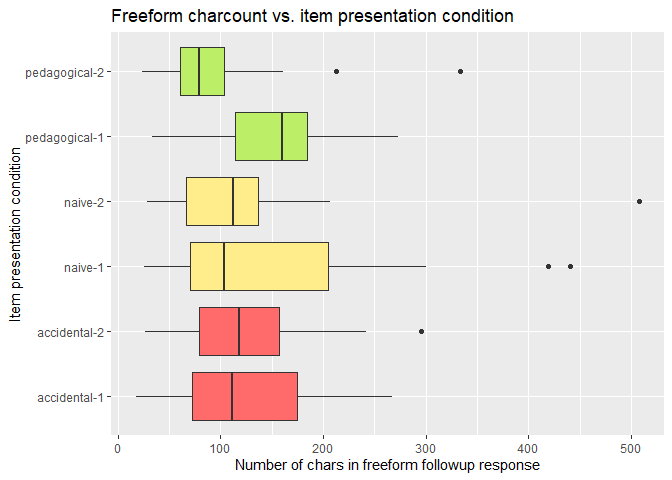
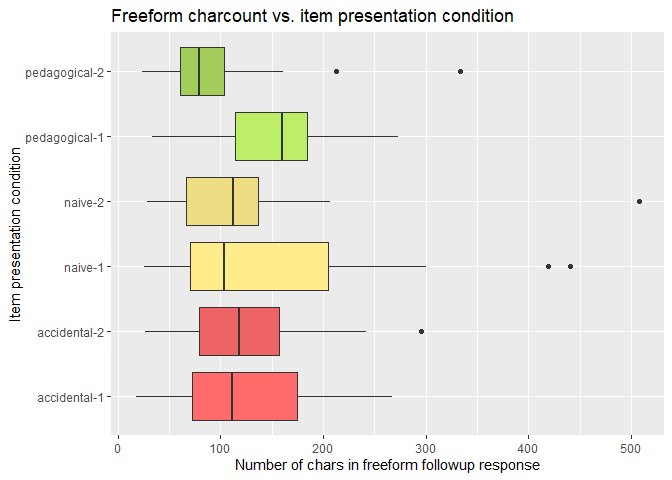
add word frequency plot

Changed region(s): [[0.25, 0.0938, 0.3438, 0.2188]]

diff --git a/analysis/proliferate/data_analysis.md b/analysis/proliferate/data_analysis.md
@@ -227,10 +227,6 @@ data data frame
 ``` r
 freeform_followup <- followup_data %>% filter(response_type == "freeform")
 
-# TODO
-# MH: Look into the tidytext package for text processing...
-# https://www.tidytextmining.com/tidytext.html
-
 freeform_followup <- freeform_followup %>%
   mutate(n_words = str_count(response, pattern=boundary(type="word"))) %>%
   mutate(n_chars = str_count(response, pattern=boundary(type="character")))
@@ -516,67 +512,6 @@ ggplot(
 
   - *Relationship appears linear, even with high outliers*
 
-Wordcount of freeform followup vs. item presentation condition
-
-``` r
-ggplot(
-  freeform_followup,
-  mapping = aes(
-    x = n_words,
-    y = proliferate.condition,
-    group = proliferate.condition,
-    fill = as.factor(proliferate.condition)
-  )
-) +
-geom_boxplot() +
-labs(
-  title = "Freeform wordcount vs. item presentation condition",
-  x = "Number of words in freeform followup response",
-  y = "Item presentation condition") +
-scale_fill_manual(
-  values = c("indianred1", "indianred1", "lightgoldenrod1", "lightgoldenrod1", "darkolivegreen2", "darkolivegreen2", "cornflowerblue", "cornflowerblue")
-) +
-theme(legend.position = "none")
-```
-
-    ## Warning: Removed 1 rows containing non-finite values (stat_boxplot).
-
-![](data_analysis_files/figure-gfm/Freeform%20followup%20wordcount%20vs.%20item%20presentation%20condition-1.png)<!-- -->
-
-*Observations*
-
-  - *1-example naive condition has largest IQR for number of words in
-    freeform followup*
-  - *2-example pedagogical has smallest IQR and smallest median for
-    number of words in freeform followup*
-
-Character count of freeform followup vs. item presentation condition
-
-``` r
-ggplot(
-  freeform_followup,
-  mapping = aes(
-    x = n_chars,
-    y = proliferate.condition,
-    group = proliferate.condition,
-    fill = as.factor(proliferate.condition)
-  )
-) +
-geom_boxplot() +
-labs(
-  title = "Freeform charcount vs. item presentation condition",
-  x = "Number of chars in freeform followup response",
-  y = "Item presentation condition") +
-scale_fill_manual(
-  values = c("indianred1", "indianred1", "lightgoldenrod1", "lightgoldenrod1", "darkolivegreen2", "darkolivegreen2", "cornflowerblue", "cornflowerblue")
-) +
-theme(legend.position = "none")
-```
-
-    ## Warning: Removed 1 rows containing non-finite values (stat_boxplot).
-
-![](data_analysis_files/figure-gfm/Freeform%20followup%20character%20count%20vs.%20item%20presentation%20condition-1.png)<!-- -->
-
 Scatter plot of trials slider response to followup slider response
 
 ``` r
@@ -662,4 +597,39 @@ ggplot(
 
     ## Warning: Removed 1 rows containing missing values (geom_point).
 
-![](data_analysis_files/figure-gfm/Followup%20wordcoutn%20vs.%20slider%20diff.-1.png)<!-- -->
+![](data_analysis_files/figure-gfm/Followup%20wordcount%20vs.%20slider%20diff.-1.png)<!-- -->
+
+Plot of word frequency for top 10 in freeform followup responses for
+each condition
+
+``` r
+freeform_followup_frequency <- freeform_followup %>%
+  unnest_tokens(word, response) %>%
+  anti_join(stop_words) %>%
+  group_by(proliferate.condition, word) %>%
+  summarise(frequency=n())
+```
+
+    ## Joining, by = "word"
+
+    ## `summarise()` regrouping output by 'proliferate.condition' (override with `.groups` argument)
+
+``` r
+ggplot(freeform_followup_frequency %>% top_n(10), aes(word, frequency)) +
+  geom_col(aes(fill=proliferate.condition)) +
+  xlab(NULL) +
+  scale_y_continuous(expand = c(0,0)) +
+  coord_flip() +
+  labs(fill = "Condition", title="Freeform followup word frequency for top 10 words") +
+  scale_fill_brewer() +
+  scale_fill_manual(
+    values = c("indianred1", "indianred2", "lightgoldenrod1", "lightgoldenrod2", "darkolivegreen2", "darkolivegreen3", "cornflowerblue", "dodgerblue3")
+  )
+```
+
+    ## Selecting by frequency
+
+    ## Scale for 'fill' is already present. Adding another scale for 'fill', which
+    ## will replace the existing scale.
+
+![](data_analysis_files/figure-gfm/Freeform%20followup%20word%20frequency-1.png)<!-- -->
